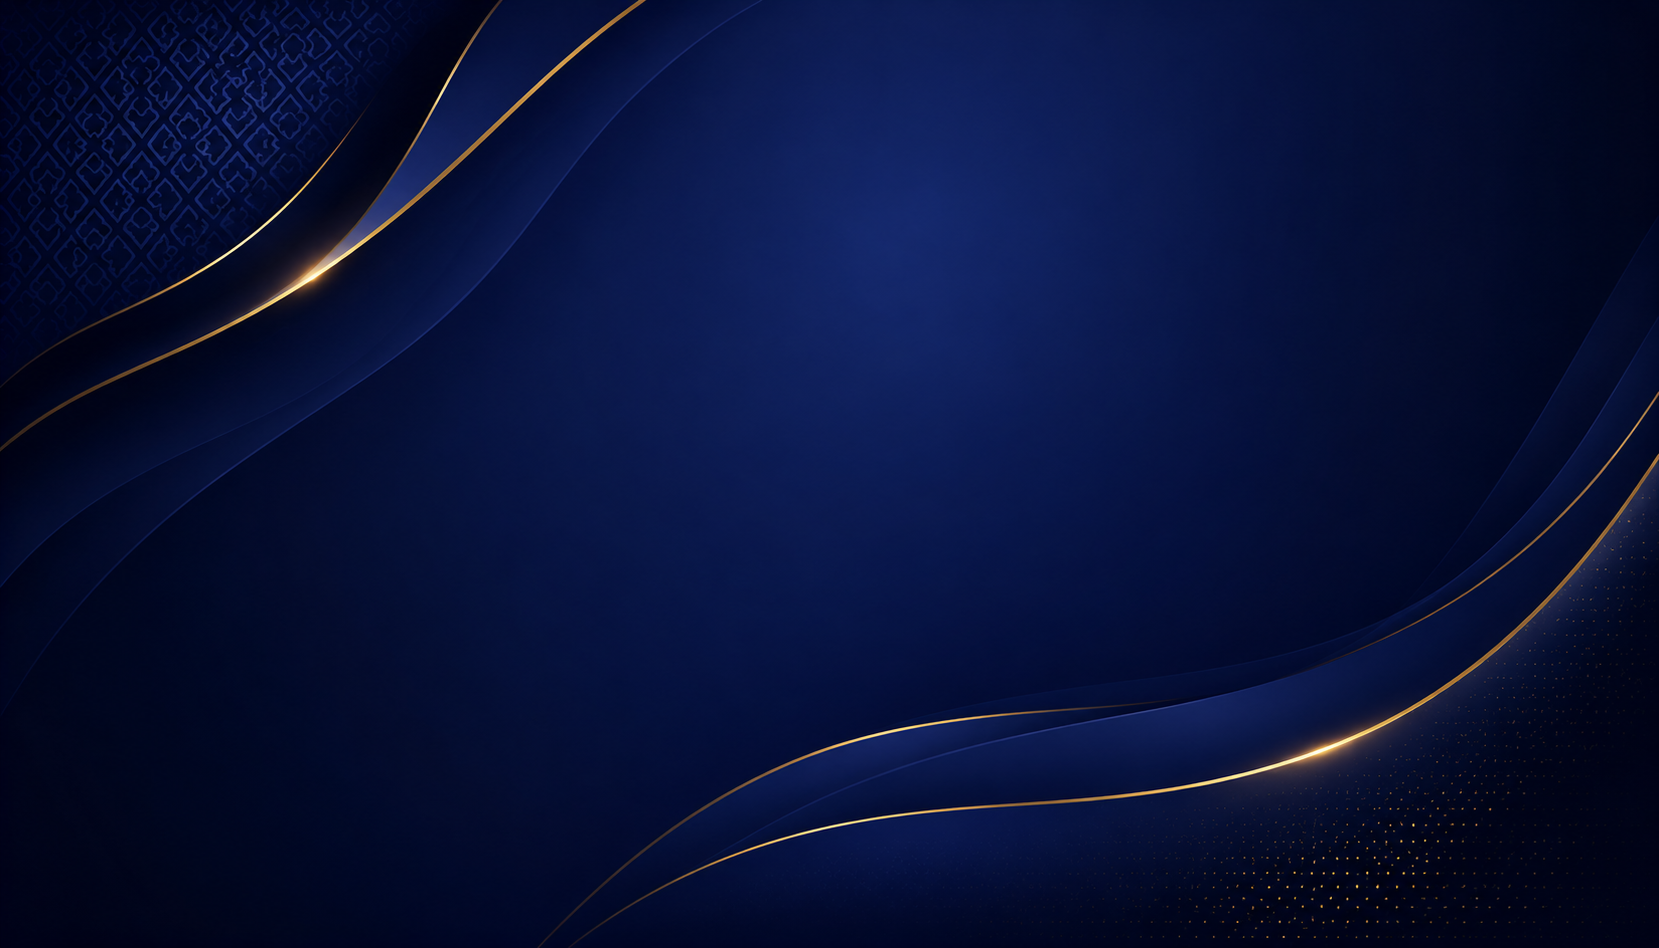
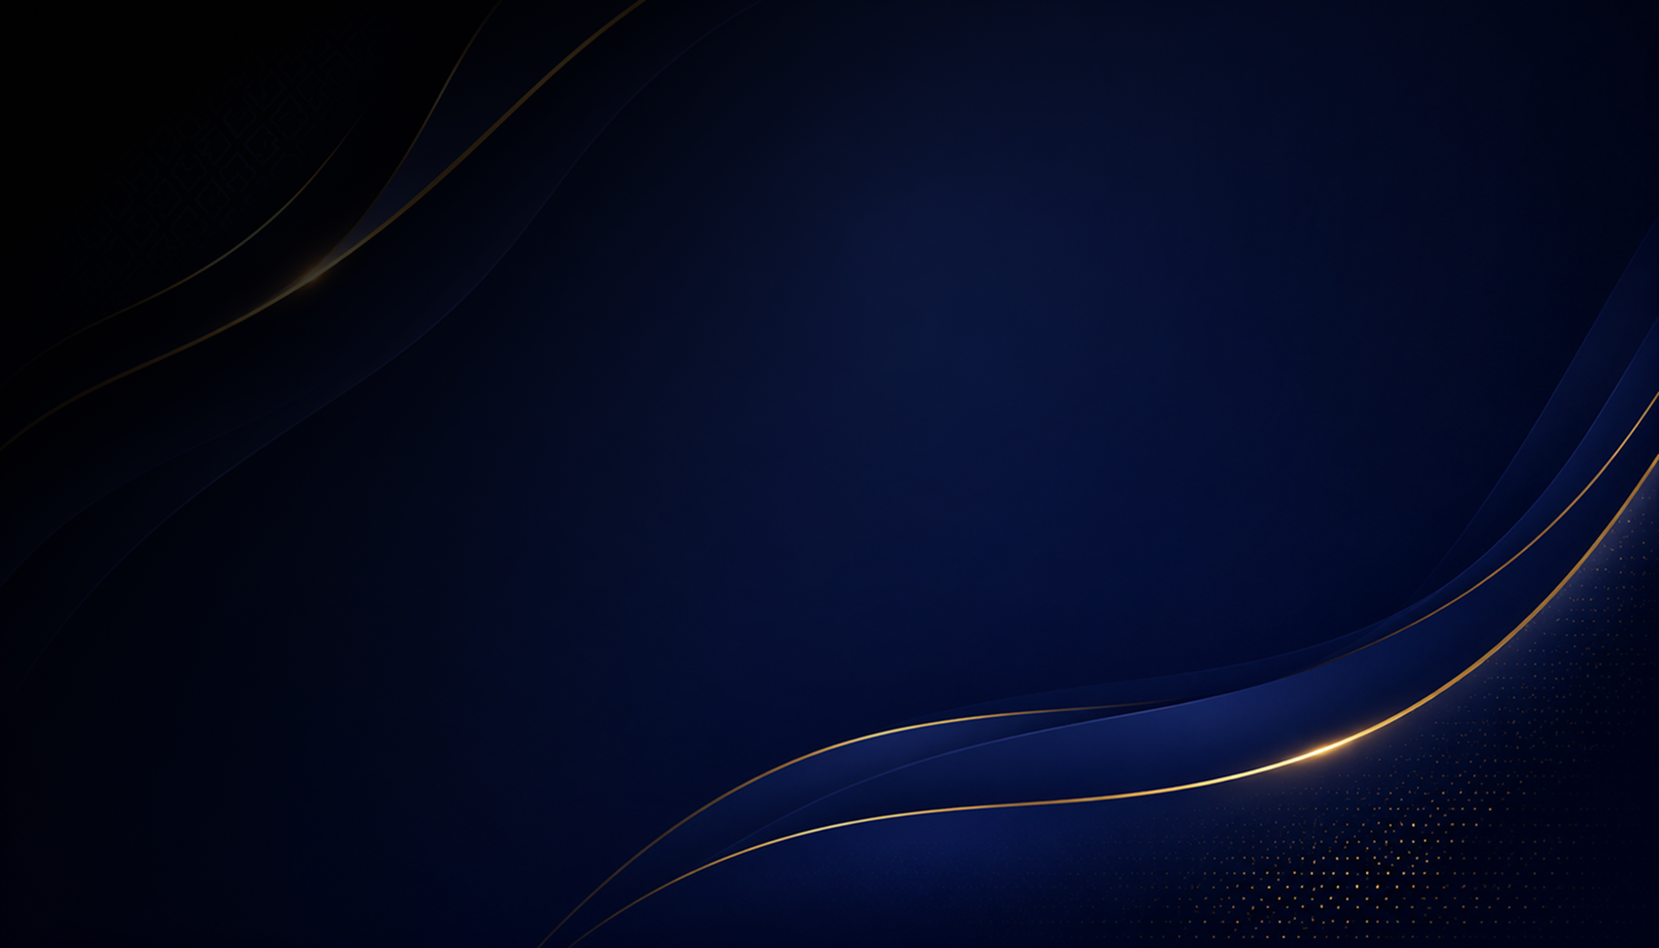
refactor: update purity factor calculation logic and remove hover transition effects on spot rate component

diff --git a/src/components/CommodityTable.jsx b/src/components/CommodityTable.jsx
@@ -34,8 +34,18 @@ const CommodityTable = ({ title, items }) => {
     return null;
   };
 
-  const purityFactor = (purity) =>
-    purity ? purity / 10 ** String(purity).length : 1;
+  // const purityFactor = (purity) =>
+  //   purity ? purity / 10 ** String(purity).length : 1;
+
+  // safe handling purity factor calculation for decimal purity values (like 999.9)
+  const purityFactor = (purity) => {
+    if (!purity) return 1;
+
+    const num = Number(purity);
+
+    return num > 1000 ? num / 10000 : num / 1000;
+  };
+
 
   const formatPrice = (value) => {
     if (value == null || isNaN(value)) return "—";

diff --git a/src/components/SpotRate.jsx b/src/components/SpotRate.jsx
@@ -229,13 +229,6 @@ const SpotRate = () => {
 
     transition: "all 0.35s ease",
 
-    "&:hover": {
-      transform: "translateY(-3px)",
-      boxShadow: `
-        0 18px 45px rgba(0,0,0,0.55),
-        0 0 30px rgba(59,164,255,0.18)
-      `,
-    },
 
     // Premium Border
     "&::before": {